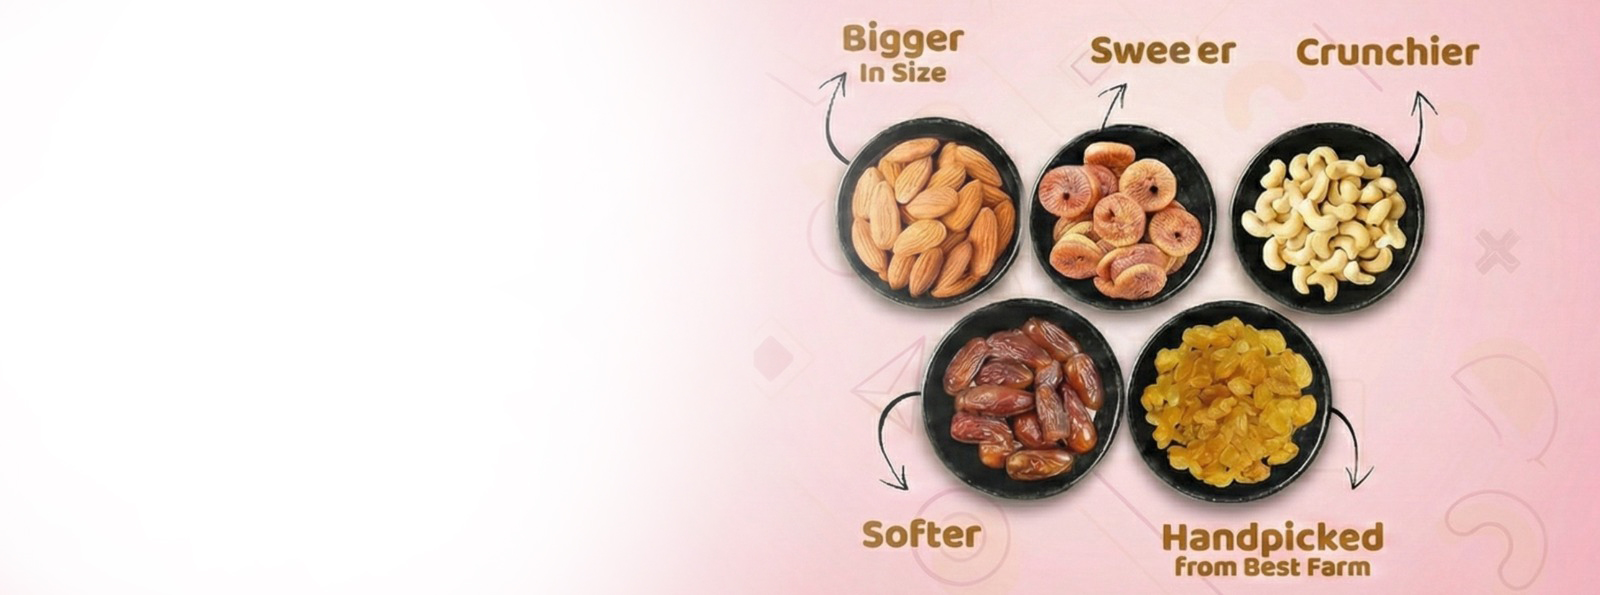
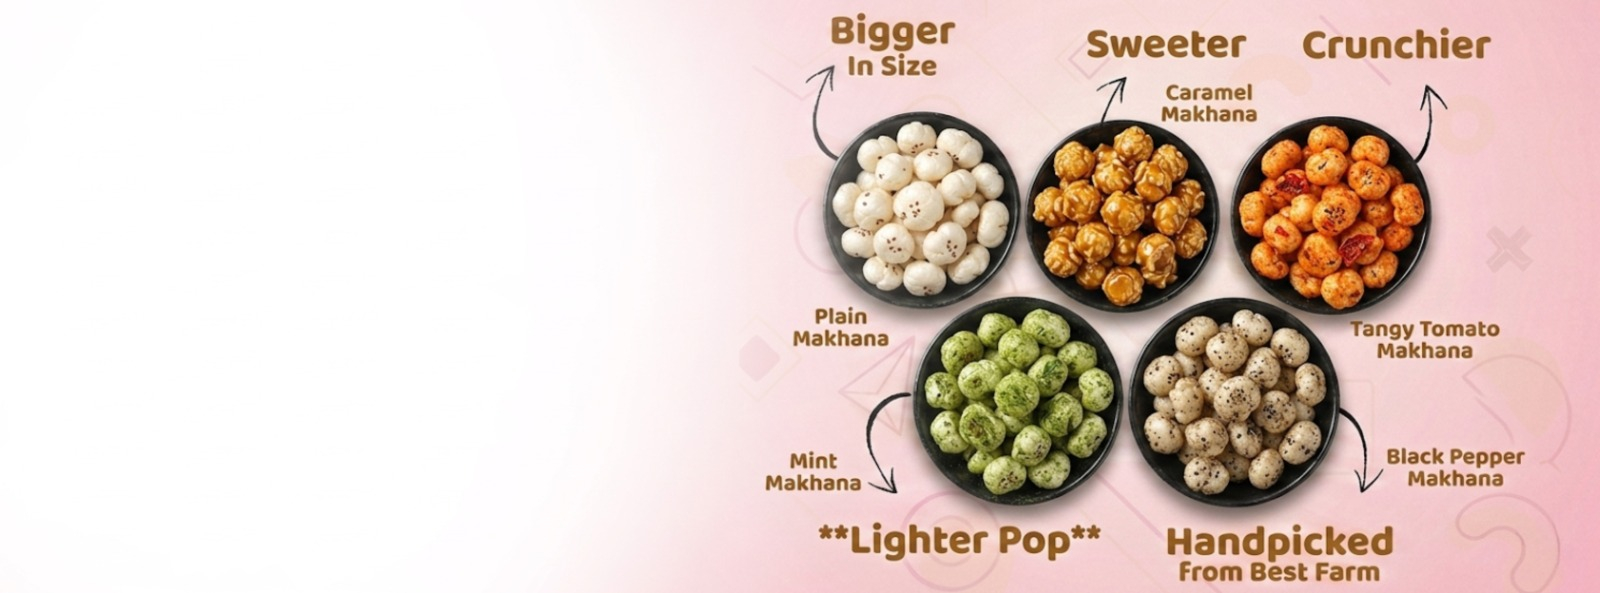
hero section changes

Changed region(s): [[0.4688, 0.0304, 0.9688, 1.0], [0.8125, 0.0304, 0.9375, 0.1214]]

diff --git a/src/components/home/Hero.tsx b/src/components/home/Hero.tsx
@@ -15,21 +15,21 @@ const slides = [
     highlight: "Snacking",
     description:
       "Experience the goodness of fox nuts transformed into crunchy, flavorful snacks that fuel your day without compromising your health goals.",
-    image: "/images/slider2.jpeg",
+    image: "/images/slider2.png",
   },
   {
     title: "Roast. Crunch. Repeat.",
     highlight: "Crunch",
     description:
       "Snackriti brings you perfectly roasted makhana packed with taste, protein, and lightness — the smarter alternative to fried snacks.",
-    image: "/images/slider3.jpeg",
+    image: "/images/slider3.png",
   },
   {
     title: "Flavors That Fit Your Lifestyle",
     highlight: "Lifestyle",
     description:
       "From classic Himalayan Pink Salt to spicy Peri Peri and indulgent Chocolate Crunch, explore a world of makhana flavors made for every mood.",
-    image: "/images/slider2.jpeg",
+    image: "/images/slider2.png",
   },
 ]
 

diff --git a/src/data/products.ts b/src/data/products.ts
@@ -960,7 +960,7 @@ export const products: Product[] = [
     description: "Pure, natural nutrition with carefully selected premium-grade lotus seeds. Unroasted and unseasoned — perfect for home roasting, cooking, or adding to your favorite healthy recipes. Naturally low in fat and rich in protein, fiber, and essential minerals.",
     highlights: ["Pure Raw Makhana — no additives", "Premium quality & handpicked", "Rich in protein & fiber", "Ideal for cooking, roasting & fasting"],
     ingredients: "100% Pure Raw Lotus Seeds (Makhana).",
-    keywords: ["raw makhana", "lotus seeds", "fox nuts", "premium", "natural", "fasting"],
+    keywords: ["raw makhana", "lotus seeds", "phool makhana", "fox nuts", "premium", "natural", "fasting"],
     rating: 4.7,
     reviewCount: 356,
     inStock: true,
